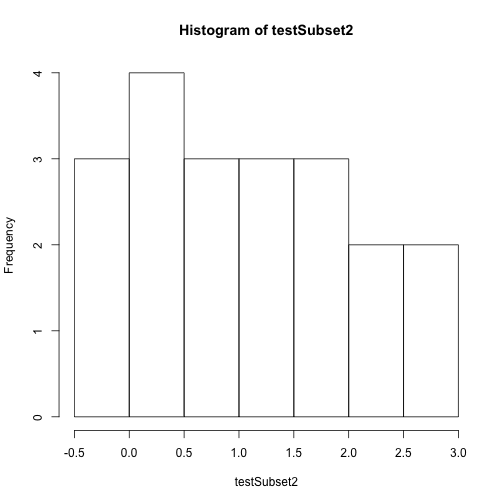
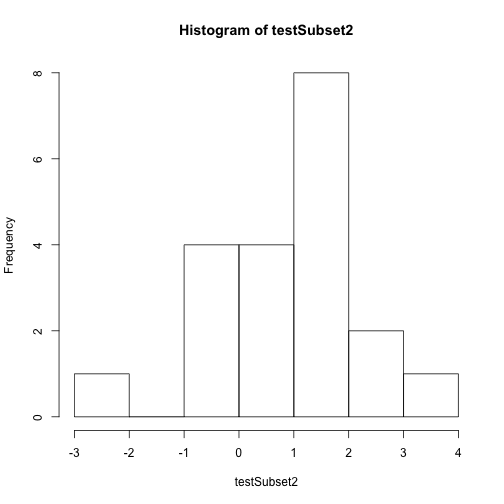
fixing syntax

diff --git a/_posts/HDF5/2014-11-05-Intro-HDF5-R.md b/_posts/HDF5/2014-11-05-Intro-HDF5-R.md
@@ -50,7 +50,7 @@ After completing this activity, you will:
 </ul>
 </div>
 
-### A Brief Review - About HDF5
+###A Brief Review - About HDF5
 The HDF5 file can store large, heterogeneous datasets that include metadata. It also supports efficient `data slicing`, or extraction of particular subsets of a dataset which means that you don't have to read  large files read into the computers memory / RAM in their entirety in order work with them. 
 
 [Read more about HDF5 here.]({{ site.baseurl }}/HDF5/About/)
@@ -133,27 +133,27 @@ are working with larger datasets!
 
     ## $aNEONSite
     ## $aNEONSite$temperature
-    ##              [,1]       [,2]
-    ##  [1,]  0.86991994  1.8956311
-    ##  [2,]  1.76431895  1.3596150
-    ##  [3,]  2.96085898  0.3122394
-    ##  [4,]  1.04862154  0.9334077
-    ##  [5,] -0.29704326  0.5337534
-    ##  [6,]  2.47113185 -0.2508707
-    ##  [7,] -0.14647566  1.2030878
-    ##  [8,]  1.10765666  1.3175695
-    ##  [9,]  0.58267513  1.7145269
-    ## [10,] -0.29785900 -0.0010946
-    ## [11,]  0.36513324  0.9034592
-    ## [12,]  2.22547292 -0.2255585
-    ## [13,]  1.71297366  1.8676572
-    ## [14,]  0.58779774  0.6218459
-    ## [15,]  2.70904931  1.5709399
-    ## [16,]  0.41239777 -0.3487875
-    ## [17,]  1.91968304  0.9597159
-    ## [18,]  1.40144605  1.5983042
-    ## [19,]  0.05490072  0.6844840
-    ## [20,]  0.13051119  1.7474272
+    ##              [,1]         [,2]
+    ##  [1,]  1.64992491 -0.134063932
+    ##  [2,]  0.66084042  2.566155571
+    ##  [3,]  0.20746709 -0.002813114
+    ##  [4,] -0.75641995  1.275026129
+    ##  [5,]  1.40231267  0.803153637
+    ##  [6,]  0.28696108  0.942411865
+    ##  [7,] -0.50949644  2.677297761
+    ##  [8,]  1.24754377  0.565336678
+    ##  [9,] -2.01899406  0.777698239
+    ## [10,] -0.36779692  0.007538472
+    ## [11,]  3.82325751  0.959522110
+    ## [12,]  1.31928062  1.453323341
+    ## [13,]  1.24222946  1.889648451
+    ## [14,]  2.25090721  1.596475762
+    ## [15,]  1.09098663  1.276771307
+    ## [16,]  1.19052877  1.999862941
+    ## [17,]  0.07737234  2.597423210
+    ## [18,]  1.18511678 -0.680129602
+    ## [19,]  2.55198835  0.938597814
+    ## [20,] -0.15441677  0.713976977
 
     #Close the file. This is good practice.
     H5close()
